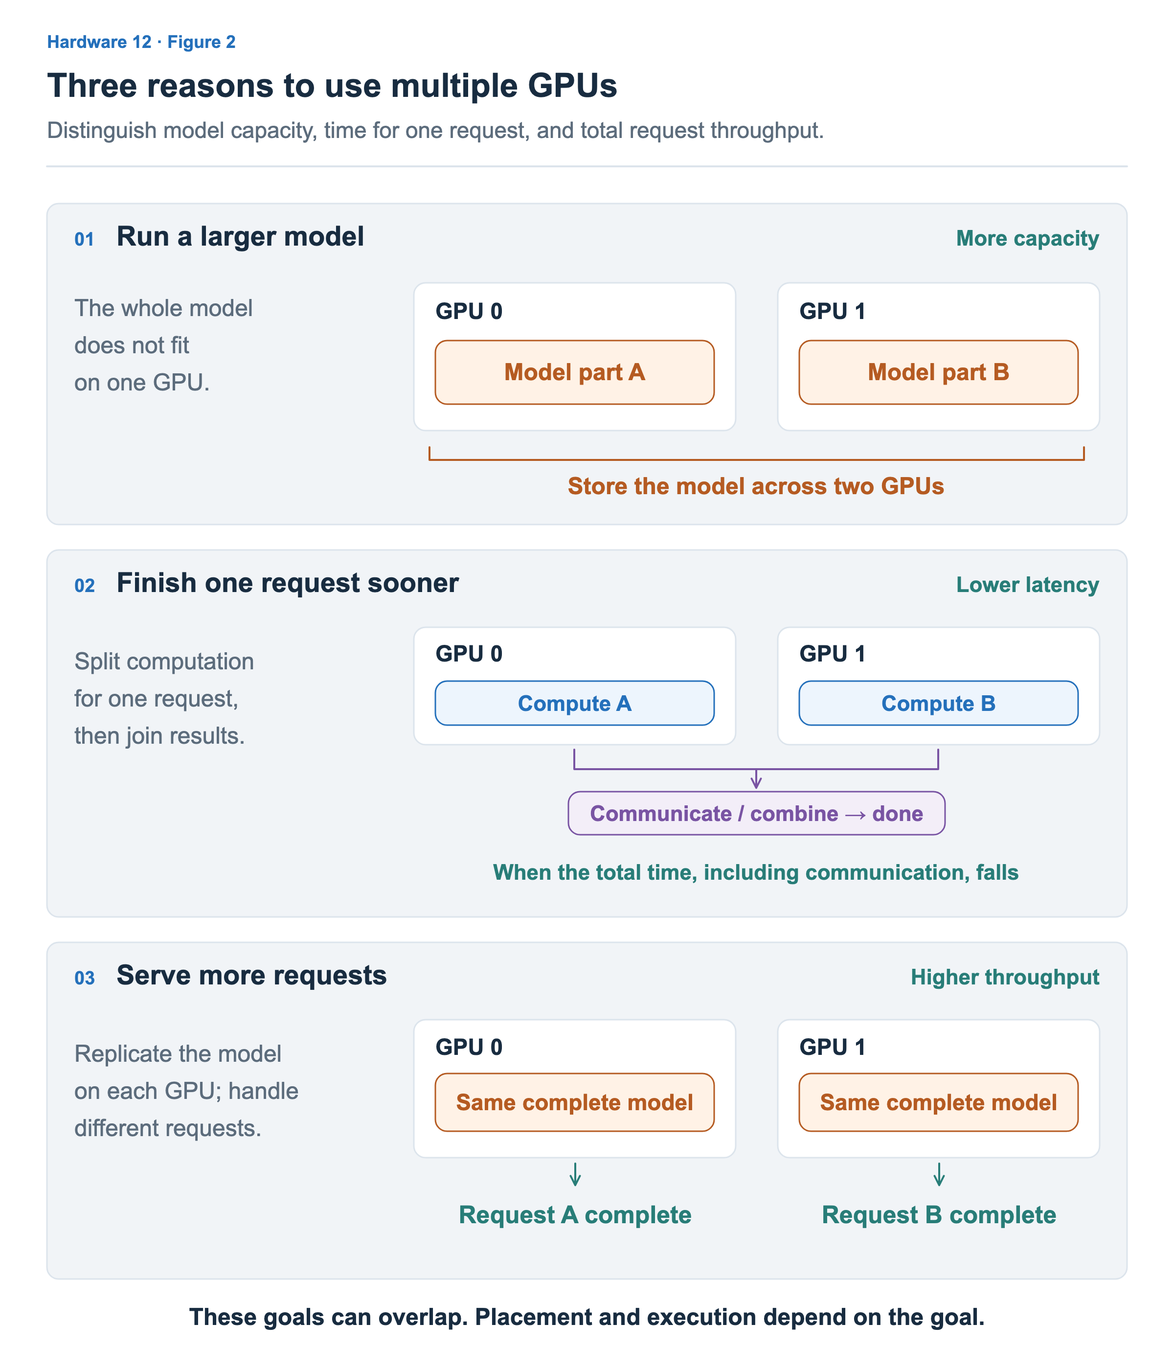
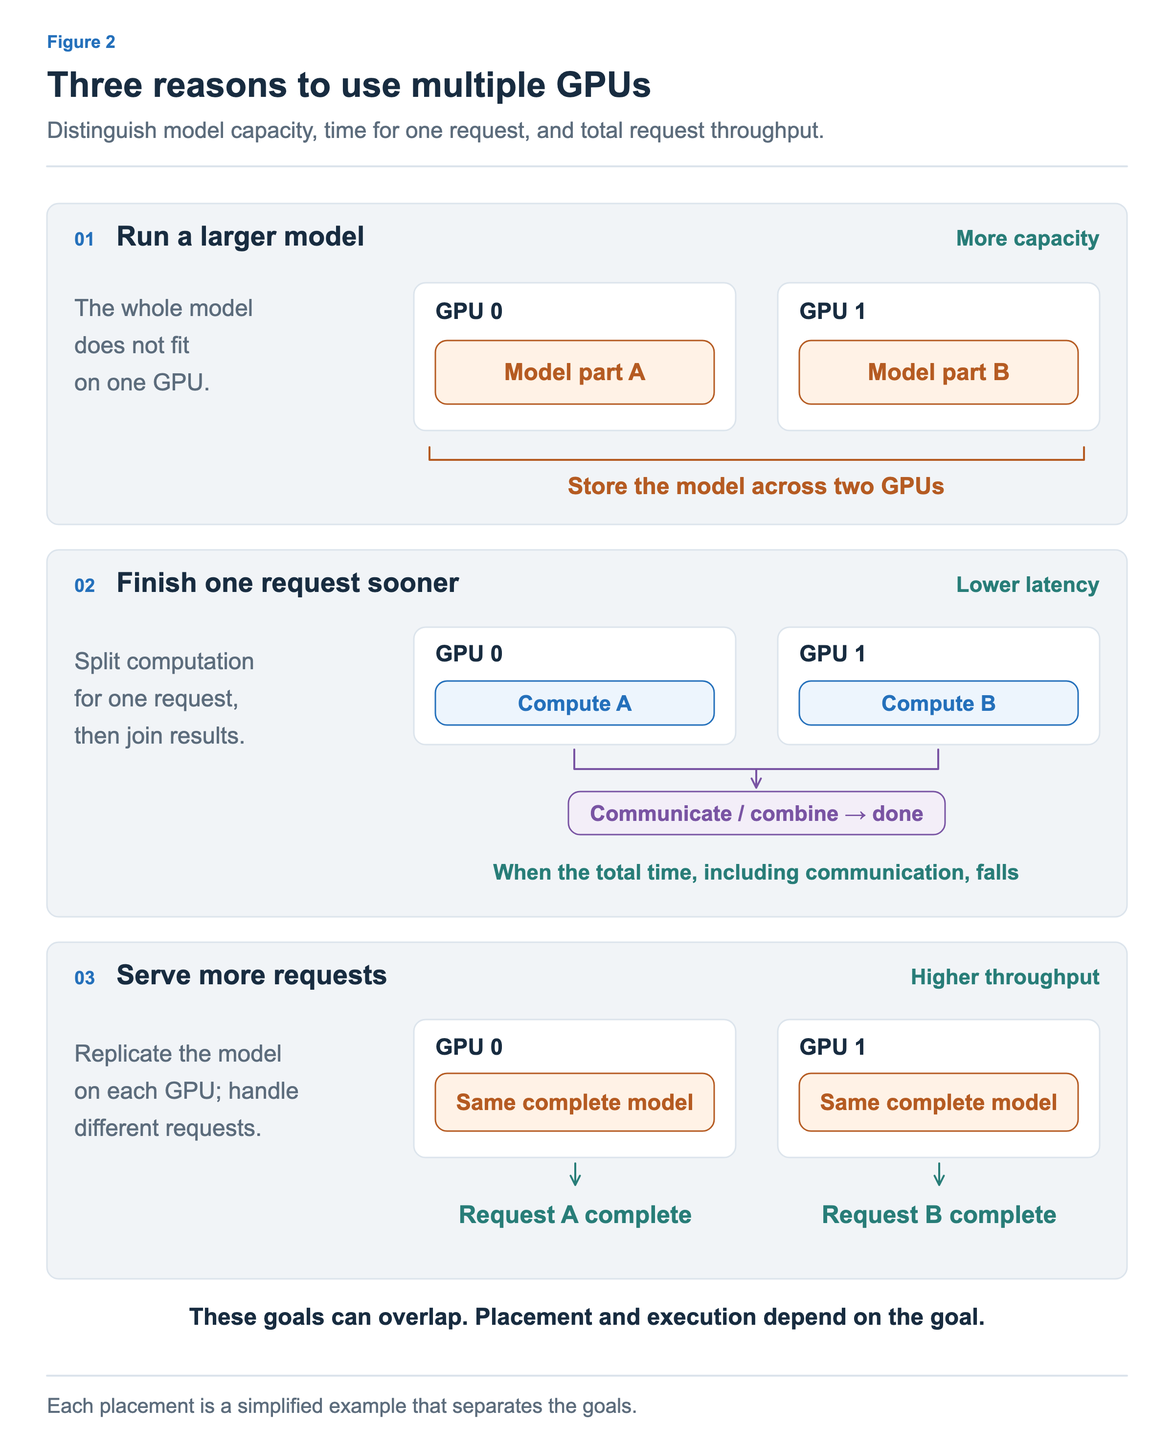
Port multi-gpu-execution figures to the shared visualization module
Figures are regenerated from src/data/figures/multi-gpu-execution with the standard frame
and in-image captions. Figures had no captions; new ko/en captions are drafted from the figures' own notes and the article text (please review).

diff --git a/src/data/figures/multi-gpu-execution/03-communication-and-waiting.ts b/src/data/figures/multi-gpu-execution/03-communication-and-waiting.ts
@@ -1,0 +1,73 @@
+import {C,Panel,markerUrl,type FigureSpec,type Locale} from '@llm-systems/viz';
+// Ported from the published SVG with its original geometry; replace parts with shared primitives when editing.
+export default {
+  articleId:"multi-gpu-execution",figureId:"03-communication-and-waiting",number:"03-communication-and-waiting",
+  layout:'wide',screens:['desktop'],
+  eyebrow:["그림 3","Figure 3"],
+  title:["GPU가 늘어도 속도가 비례하지는 않습니다","More GPUs do not guarantee proportional speedup"],
+  subtitle:["한 GPU의 시간 축을 여러 GPU의 실행과 통신·대기로 확장합니다.","Extend one GPU’s timeline to include multiple GPUs, communication, and waiting."],
+  alt:["같은 작업을 한 GPU에서는 100ms에 처리한다. 균등 분할은 GPU별 계산 50ms 후 통신과 취합 10ms로 60ms에 완료한다. 불균형 분할은 GPU 0이 30ms 계산 후 40ms 기다리고 GPU 1이 70ms 계산한 뒤, 10ms 통신과 취합으로 80ms에 완료한다. 시간 축은 같으며 대기 40ms를 전체에 다시 더하지 않는다. 설명용이며 계산과 통신은 겹치지 않는다.","The same workload takes 100 ms on one GPU. Balanced: 50 ms compute per GPU and 10 ms communication/combine finish at 60 ms. Uneven: GPU 0 computes for 30 and waits 40 ms while GPU 1 computes for 70, then 10 ms communication/combine finishes at 80 ms. The 40 ms wait is not added again. Illustrative, with no compute/communication overlap."],
+  caption:["설명용 수치이며, 이 예시에서 계산과 통신은 겹치지 않는다고 가정합니다.","Values are illustrative; this example assumes computation and communication do not overlap."],
+  sources:[],
+  panels(locale:Locale){
+    const p=new Panel(locale,null,988,1104,[48,206]);
+    p.el("rect",{x:48,y:198,width:22,height:22,rx:3,fill:C.blueFill,stroke:C.blue,"stroke-width":1.5});
+    p.el('text',{x:82,y:216,fill:C.blue,"font-size":21,"font-weight":400,"text-anchor":"start"},["연산","Compute"]);
+    p.el("rect",{x:239,y:198,width:22,height:22,rx:3,fill:C.purpleFill,stroke:C.purple,"stroke-width":1.5});
+    p.el('text',{x:273,y:216,fill:C.purple,"font-size":21,"font-weight":400,"text-anchor":"start"},["통신·취합","Transfer / combine"]);
+    p.el("rect",{x:555,y:198,width:22,height:22,rx:3,fill:C.grayFill,stroke:C.muted,"stroke-width":1.5});
+    p.el('text',{x:589,y:216,fill:C.muted,"font-size":21,"font-weight":400,"text-anchor":"start"},["대기","Wait"]);
+    p.el('text',{x:1152,y:216,fill:C.muted,"font-size":20,"font-weight":400,"text-anchor":"end"},["동일한 작업 · 단위: ms","Same workload · Unit: ms"]);
+    p.el('text',{x:281,y:264,fill:C.muted,"font-size":18,"font-weight":400,"text-anchor":"middle"},"0");
+    p.el("path",{d:"M281,320 V385 M281,477 V627 M281,778 V928",fill:"none",stroke:C.line,"stroke-width":2,"stroke-dasharray":"7 6"});
+    p.el('text',{x:421,y:264,fill:C.muted,"font-size":18,"font-weight":400,"text-anchor":"middle"},"20");
+    p.el("path",{d:"M421,320 V385 M421,477 V627 M421,778 V928",fill:"none",stroke:C.line,"stroke-width":2,"stroke-dasharray":"7 6"});
+    p.el('text',{x:561,y:264,fill:C.muted,"font-size":18,"font-weight":400,"text-anchor":"middle"},"40");
+    p.el("path",{d:"M561,320 V385 M561,477 V627 M561,778 V928",fill:"none",stroke:C.line,"stroke-width":2,"stroke-dasharray":"7 6"});
+    p.el('text',{x:701,y:264,fill:C.muted,"font-size":18,"font-weight":400,"text-anchor":"middle"},"60");
+    p.el("path",{d:"M701,320 V385 M701,477 V627 M701,778 V928",fill:"none",stroke:C.line,"stroke-width":2,"stroke-dasharray":"7 6"});
+    p.el('text',{x:841,y:264,fill:C.muted,"font-size":18,"font-weight":400,"text-anchor":"middle"},"80");
+    p.el("path",{d:"M841,320 V385 M841,477 V627 M841,778 V928",fill:"none",stroke:C.line,"stroke-width":2,"stroke-dasharray":"7 6"});
+    p.el('text',{x:981,y:264,fill:C.muted,"font-size":18,"font-weight":400,"text-anchor":"middle"},"100");
+    p.el("path",{d:"M981,320 V385 M981,477 V627 M981,778 V928",fill:"none",stroke:C.line,"stroke-width":2,"stroke-dasharray":"7 6"});
+    p.el('text',{x:48,y:311,fill:C.ink,"font-size":25,"font-weight":700,"text-anchor":"start"},["한 GPU","One GPU"]);
+    p.el('text',{x:48,y:363,fill:C.muted,"font-size":21,"font-weight":400,"text-anchor":"start"},"GPU 0");
+    p.el("rect",{x:281,y:331,width:700,height:48,rx:12,fill:C.blueFill,stroke:C.blue,"stroke-width":1.5});
+    p.el('text',{x:631,y:363,fill:C.blue,"font-size":23,"font-weight":600,"text-anchor":"middle"},["전체 계산 100","Full computation: 100"]);
+    p.el('text',{x:1010,y:363,fill:C.ink,"font-size":25,"font-weight":700,"text-anchor":"start"},"100 ms");
+    p.el('text',{x:48,y:463,fill:C.ink,"font-size":25,"font-weight":700,"text-anchor":"start"},["고른 분할","Balanced split"]);
+    p.el('text',{x:48,y:520,fill:C.muted,"font-size":21,"font-weight":400,"text-anchor":"start"},"GPU 0");
+    p.el("rect",{x:281,y:488,width:350,height:48,rx:12,fill:C.blueFill,stroke:C.blue,"stroke-width":1.5});
+    p.el('text',{x:456,y:520,fill:C.blue,"font-size":23,"font-weight":600,"text-anchor":"middle"},["계산 50","Compute: 50"]);
+    p.el("rect",{x:631,y:488,width:70,height:48,rx:12,fill:C.purpleFill,stroke:C.purple,"stroke-width":1.5});
+    p.el('text',{x:666,y:520,fill:C.purple,"font-size":23,"font-weight":600,"text-anchor":"middle"},"10");
+    p.el('text',{x:48,y:600,fill:C.muted,"font-size":21,"font-weight":400,"text-anchor":"start"},"GPU 1");
+    p.el("rect",{x:281,y:568,width:350,height:48,rx:12,fill:C.blueFill,stroke:C.blue,"stroke-width":1.5});
+    p.el('text',{x:456,y:600,fill:C.blue,"font-size":23,"font-weight":600,"text-anchor":"middle"},["계산 50","Compute: 50"]);
+    p.el("rect",{x:631,y:568,width:70,height:48,rx:12,fill:C.purpleFill,stroke:C.purple,"stroke-width":1.5});
+    p.el('text',{x:666,y:600,fill:C.purple,"font-size":23,"font-weight":600,"text-anchor":"middle"},"10");
+    p.el("path",{d:"M666,541 L666,561",fill:"none",stroke:C.purple,"stroke-width":2,"marker-end":markerUrl(C.purple)});
+    p.el('text',{x:725,y:601,fill:C.ink,"font-size":25,"font-weight":700,"text-anchor":"start"},"60 ms");
+    p.el('text',{x:281,y:659,fill:C.muted,"font-size":23,"font-weight":400,"text-anchor":"start"},["50 ms 계산 + 10 ms 통신·취합 = 60 ms","50 ms compute + 10 ms transfer / combine = 60 ms"]);
+    p.el('text',{x:48,y:765,fill:C.ink,"font-size":25,"font-weight":700,"text-anchor":"start"},["불균형한 분할","Uneven split"]);
+    p.el('text',{x:48,y:821,fill:C.muted,"font-size":21,"font-weight":400,"text-anchor":"start"},"GPU 0");
+    p.el("rect",{x:281,y:789,width:210,height:48,rx:12,fill:C.blueFill,stroke:C.blue,"stroke-width":1.5});
+    p.el('text',{x:386,y:821,fill:C.blue,"font-size":23,"font-weight":600,"text-anchor":"middle"},["계산 30","Compute: 30"]);
+    p.el("rect",{x:491,y:789,width:280,height:48,rx:12,fill:C.grayFill,stroke:C.muted,"stroke-width":1.5});
+    p.el('text',{x:631,y:821,fill:C.muted,"font-size":23,"font-weight":600,"text-anchor":"middle"},["대기 40","Wait: 40"]);
+    p.el("rect",{x:771,y:789,width:70,height:48,rx:12,fill:C.purpleFill,stroke:C.purple,"stroke-width":1.5});
+    p.el('text',{x:806,y:821,fill:C.purple,"font-size":23,"font-weight":600,"text-anchor":"middle"},"10");
+    p.el('text',{x:48,y:901,fill:C.muted,"font-size":21,"font-weight":400,"text-anchor":"start"},"GPU 1");
+    p.el("rect",{x:281,y:869,width:490,height:48,rx:12,fill:C.blueFill,stroke:C.blue,"stroke-width":1.5});
+    p.el('text',{x:526,y:901,fill:C.blue,"font-size":23,"font-weight":600,"text-anchor":"middle"},["계산 70","Compute: 70"]);
+    p.el("rect",{x:771,y:869,width:70,height:48,rx:12,fill:C.purpleFill,stroke:C.purple,"stroke-width":1.5});
+    p.el('text',{x:806,y:901,fill:C.purple,"font-size":23,"font-weight":600,"text-anchor":"middle"},"10");
+    p.el("path",{d:"M806,842 L806,862",fill:"none",stroke:C.purple,"stroke-width":2,"marker-end":markerUrl(C.purple)});
+    p.el('text',{x:865,y:901,fill:C.ink,"font-size":25,"font-weight":700,"text-anchor":"start"},"80 ms");
+    p.el('text',{x:281,y:959,fill:C.muted,"font-size":22,"font-weight":400,"text-anchor":"start"},["늦게 끝나는 계산 70 ms + 통신·취합 10 ms = 80 ms","70 ms for the slower computation + 10 ms transfer / combine = 80 ms"]);
+    p.el("rect",{x:48,y:1049,width:1104,height:137,rx:12,fill:C.grayFill,stroke:C.line,"stroke-width":1.5});
+    p.el('text',{x:600,y:1095,fill:C.ink,"font-size":26,"font-weight":700,"text-anchor":"middle"},["계산을 줄여도, 통신과 기다리는 시간이 추가될 수 있습니다.","Less computation per GPU can come with communication and waiting."]);
+    p.el('text',{x:600,y:1137,fill:C.muted,"font-size":23,"font-weight":400,"text-anchor":"middle"},["전체 완료 시간은 GPU별 시간을 더한 값이 아니라 실행 경로로 결정됩니다.","Elapsed time follows the execution path; it is not the sum of GPU times."]);
+    return [p];
+  },
+} satisfies FigureSpec;

diff --git a/src/data/figures/multi-gpu-execution/02-three-goals.ts b/src/data/figures/multi-gpu-execution/02-three-goals.ts
@@ -1,0 +1,73 @@
+import {C,Panel,markerUrl,type FigureSpec,type Locale} from '@llm-systems/viz';
+// Ported from the published SVG with its original geometry; replace parts with shared primitives when editing.
+export default {
+  articleId:"multi-gpu-execution",figureId:"02-three-goals",number:"02-three-goals",
+  layout:'wide',screens:['desktop'],
+  eyebrow:["그림 2","Figure 2"],
+  title:["여러 GPU를 사용하는 세 가지 목적","Three reasons to use multiple GPUs"],
+  subtitle:["모델을 담는 용량, 한 요청의 완료 시간, 전체 요청 처리량을 구분합니다.","Distinguish model capacity, time for one request, and total request throughput."],
+  alt:["첫 패널은 모델 A와 B를 두 GPU에 분할 저장한다. 둘째는 같은 요청의 계산 A와 B를 동시에 처리하고 통신과 취합을 거쳐 완료한다. 셋째는 각 GPU에 같은 전체 모델을 복제하고 요청 A와 B를 따로 처리한다. 목적은 겹칠 수 있다.","Panel 1 stores model parts A and B across two GPUs. Panel 2 splits one request into concurrent computations A and B and communicates to combine results. Panel 3 replicates the full model on each GPU and serves requests A and B separately. Goals may overlap."],
+  caption:["각 배치는 목적을 구분하기 위한 단순화된 예시입니다.","Each placement is a simplified example that separates the goals."],
+  sources:[],
+  panels(locale:Locale){
+    const p=new Panel(locale,null,1164,1104,[48,206]);
+    p.el("rect",{x:48,y:208,width:1104,height:328,rx:12,fill:C.grayFill,stroke:C.line,"stroke-width":1.5});
+    p.el('text',{x:76,y:251,fill:C.blue,"font-size":19,"font-weight":600,"text-anchor":"start"},"01");
+    p.el('text',{x:119,y:251,fill:C.ink,"font-size":28,"font-weight":700,"text-anchor":"start"},["더 큰 모델 실행","Run a larger model"]);
+    p.el('text',{x:1124,y:251,fill:C.teal,"font-size":22,"font-weight":600,"text-anchor":"end"},["용량 확보","More capacity"]);
+    p.el("rect",{x:48,y:562,width:1104,height:375,rx:12,fill:C.grayFill,stroke:C.line,"stroke-width":1.5});
+    p.el('text',{x:76,y:605,fill:C.blue,"font-size":19,"font-weight":600,"text-anchor":"start"},"02");
+    p.el('text',{x:119,y:605,fill:C.ink,"font-size":28,"font-weight":700,"text-anchor":"start"},["한 요청을 더 빠르게","Finish one request sooner"]);
+    p.el('text',{x:1124,y:605,fill:C.teal,"font-size":22,"font-weight":600,"text-anchor":"end"},["응답 시간 단축","Lower latency"]);
+    p.el("rect",{x:48,y:963,width:1104,height:344,rx:12,fill:C.grayFill,stroke:C.line,"stroke-width":1.5});
+    p.el('text',{x:76,y:1006,fill:C.blue,"font-size":19,"font-weight":600,"text-anchor":"start"},"03");
+    p.el('text',{x:119,y:1006,fill:C.ink,"font-size":28,"font-weight":700,"text-anchor":"start"},["더 많은 요청 처리","Serve more requests"]);
+    p.el('text',{x:1124,y:1006,fill:C.teal,"font-size":22,"font-weight":600,"text-anchor":"end"},["처리량 증가","Higher throughput"]);
+    p.el('text',{x:76,y:323,fill:C.muted,"font-size":24,"font-weight":400,"text-anchor":"start"},["한 GPU에는","The whole model"]);
+    p.el('text',{x:76,y:361,fill:C.muted,"font-size":24,"font-weight":400,"text-anchor":"start"},["모델 전체가","does not fit"]);
+    p.el('text',{x:76,y:399,fill:C.muted,"font-size":24,"font-weight":400,"text-anchor":"start"},["들어가지 않음","on one GPU."]);
+    p.el("rect",{x:423,y:289,width:329,height:151,rx:12,fill:C.paper,stroke:C.line,"stroke-width":1.5});
+    p.el('text',{x:445,y:326,fill:C.ink,"font-size":23,"font-weight":700,"text-anchor":"start"},"GPU 0");
+    p.el("rect",{x:445,y:348,width:285,height:65,rx:12,fill:C.orangeFill,stroke:C.orange,"stroke-width":1.5});
+    p.el('text',{x:587.5,y:388.5,fill:C.orange,"font-size":24,"font-weight":600,"text-anchor":"middle"},["모델 일부 A","Model part A"]);
+    p.el("rect",{x:795,y:289,width:329,height:151,rx:12,fill:C.paper,stroke:C.line,"stroke-width":1.5});
+    p.el('text',{x:817,y:326,fill:C.ink,"font-size":23,"font-weight":700,"text-anchor":"start"},"GPU 1");
+    p.el("rect",{x:817,y:348,width:285,height:65,rx:12,fill:C.orangeFill,stroke:C.orange,"stroke-width":1.5});
+    p.el('text',{x:959.5,y:388.5,fill:C.orange,"font-size":24,"font-weight":600,"text-anchor":"middle"},["모델 일부 B","Model part B"]);
+    p.el("path",{d:"M439,457 V470 H1108 V457",fill:"none",stroke:C.orange,"stroke-width":2});
+    p.el('text',{x:773,y:505,fill:C.orange,"font-size":24,"font-weight":600,"text-anchor":"middle"},["두 GPU에 모델을 나누어 저장","Store the model across two GPUs"]);
+    p.el('text',{x:76,y:684,fill:C.muted,"font-size":24,"font-weight":400,"text-anchor":"start"},["한 요청의 계산을","Split computation"]);
+    p.el('text',{x:76,y:722,fill:C.muted,"font-size":24,"font-weight":400,"text-anchor":"start"},["나누어 수행하고","for one request,"]);
+    p.el('text',{x:76,y:760,fill:C.muted,"font-size":24,"font-weight":400,"text-anchor":"start"},["결과를 연결","then join results."]);
+    p.el("rect",{x:423,y:641,width:329,height:120,rx:12,fill:C.paper,stroke:C.line,"stroke-width":1.5});
+    p.el('text',{x:445,y:676,fill:C.ink,"font-size":23,"font-weight":700,"text-anchor":"start"},"GPU 0");
+    p.el("rect",{x:445,y:696,width:285,height:45,rx:12,fill:C.blueFill,stroke:C.blue,"stroke-width":1.5});
+    p.el('text',{x:587.5,y:726.5,fill:C.blue,"font-size":22,"font-weight":600,"text-anchor":"middle"},["계산 A","Compute A"]);
+    p.el("rect",{x:795,y:641,width:329,height:120,rx:12,fill:C.paper,stroke:C.line,"stroke-width":1.5});
+    p.el('text',{x:817,y:676,fill:C.ink,"font-size":23,"font-weight":700,"text-anchor":"start"},"GPU 1");
+    p.el("rect",{x:817,y:696,width:285,height:45,rx:12,fill:C.blueFill,stroke:C.blue,"stroke-width":1.5});
+    p.el('text',{x:959.5,y:726.5,fill:C.blue,"font-size":22,"font-weight":600,"text-anchor":"middle"},["계산 B","Compute B"]);
+    p.el("path",{d:"M587,766 V786 H773 V804",fill:"none",stroke:C.purple,"stroke-width":2,"marker-end":markerUrl(C.purple)});
+    p.el("path",{d:"M959,766 V786 H773",fill:"none",stroke:C.purple,"stroke-width":2});
+    p.el("rect",{x:581,y:809,width:385,height:44,rx:12,fill:C.purpleFill,stroke:C.purple,"stroke-width":1.5});
+    p.el('text',{x:773.5,y:839,fill:C.purple,"font-size":22,"font-weight":600,"text-anchor":"middle"},["통신·결과 취합 → 완료","Communicate / combine → done"]);
+    p.el('text',{x:773,y:899,fill:C.teal,"font-size":22,"font-weight":600,"text-anchor":"middle"},["통신을 포함한 완료 시간이 줄어드는 경우","When the total time, including communication, falls"]);
+    p.el('text',{x:76,y:1085,fill:C.muted,"font-size":24,"font-weight":400,"text-anchor":"start"},["같은 모델을","Replicate the model"]);
+    p.el('text',{x:76,y:1123,fill:C.muted,"font-size":24,"font-weight":400,"text-anchor":"start"},["각 GPU에 복제하고","on each GPU; handle"]);
+    p.el('text',{x:76,y:1161,fill:C.muted,"font-size":24,"font-weight":400,"text-anchor":"start"},["서로 다른 요청 처리","different requests."]);
+    p.el("rect",{x:423,y:1042,width:329,height:141,rx:12,fill:C.paper,stroke:C.line,"stroke-width":1.5});
+    p.el('text',{x:445,y:1078,fill:C.ink,"font-size":23,"font-weight":700,"text-anchor":"start"},"GPU 0");
+    p.el("rect",{x:445,y:1097,width:285,height:59,rx:12,fill:C.orangeFill,stroke:C.orange,"stroke-width":1.5});
+    p.el('text',{x:587.5,y:1134.5,fill:C.orange,"font-size":23,"font-weight":600,"text-anchor":"middle"},["같은 모델 전체","Same complete model"]);
+    p.el("path",{d:"M588,1189 L588,1210",fill:"none",stroke:C.teal,"stroke-width":2,"marker-end":markerUrl(C.teal)});
+    p.el('text',{x:588,y:1250,fill:C.teal,"font-size":25,"font-weight":600,"text-anchor":"middle"},["요청 A 완료","Request A complete"]);
+    p.el("rect",{x:795,y:1042,width:329,height:141,rx:12,fill:C.paper,stroke:C.line,"stroke-width":1.5});
+    p.el('text',{x:817,y:1078,fill:C.ink,"font-size":23,"font-weight":700,"text-anchor":"start"},"GPU 1");
+    p.el("rect",{x:817,y:1097,width:285,height:59,rx:12,fill:C.orangeFill,stroke:C.orange,"stroke-width":1.5});
+    p.el('text',{x:959.5,y:1134.5,fill:C.orange,"font-size":23,"font-weight":600,"text-anchor":"middle"},["같은 모델 전체","Same complete model"]);
+    p.el("path",{d:"M960,1189 L960,1210",fill:"none",stroke:C.teal,"stroke-width":2,"marker-end":markerUrl(C.teal)});
+    p.el('text',{x:960,y:1250,fill:C.teal,"font-size":25,"font-weight":600,"text-anchor":"middle"},["요청 B 완료","Request B complete"]);
+    p.el('text',{x:600,y:1354,fill:C.ink,"font-size":24,"font-weight":600,"text-anchor":"middle"},["세 목적은 함께 달성할 수도 있습니다. 목적에 따라 배치와 실행을 정합니다.","These goals can overlap. Placement and execution depend on the goal."]);
+    return [p];
+  },
+} satisfies FigureSpec;

diff --git a/src/data/figures/multi-gpu-execution/01-gpus-and-interconnect.ts b/src/data/figures/multi-gpu-execution/01-gpus-and-interconnect.ts
@@ -1,0 +1,44 @@
+import {C,Panel,markerUrl,type FigureSpec,type Locale} from '@llm-systems/viz';
+// Ported from the published SVG with its original geometry; replace parts with shared primitives when editing.
+export default {
+  articleId:"multi-gpu-execution",figureId:"01-gpus-and-interconnect",number:"01-gpus-and-interconnect",
+  layout:'wide',screens:['desktop'],
+  eyebrow:["그림 1","Figure 1"],
+  title:["각 GPU에는 연산 장치와 메모리가 있습니다","Each GPU has its own compute and memory"],
+  subtitle:["한 GPU 안의 데이터 이동에서 GPU 사이의 데이터 이동으로 범위를 넓힙니다.","Extend the view from data movement within one GPU to movement between GPUs."],
+  alt:["GPU 0과 GPU 1 각각에 연산 장치와 HBM이 있다. 파란 왕복 화살표는 GPU 내부 메모리 이동, 보라 왕복 화살표는 두 GPU의 메모리 사이 통신을 나타낸다. 두 메모리는 하나의 자동 통합된 공간으로 그리지 않는다.","GPU 0 and GPU 1 each have compute units and HBM. Blue arrows show local memory traffic; purple arrows show communication between their memories. The memories are not depicted as one automatically pooled space."],
+  caption:["두 GPU의 메모리는 자동으로 합쳐진 하나의 공간이 아닙니다. 보라 화살표는 GPU 사이의 통신입니다.","The two GPU memories are not automatically merged into one space; purple arrows show communication between GPUs."],
+  sources:[],
+  panels(locale:Locale){
+    const p=new Panel(locale,null,654,1104,[48,206]);
+    p.el("rect",{x:48,y:216,width:476,height:474,rx:12,fill:C.grayFill,stroke:C.line,"stroke-width":1.5});
+    p.el('text',{x:76,y:262,fill:C.ink,"font-size":29,"font-weight":700,"text-anchor":"start"},"GPU 0");
+    p.el("rect",{x:92,y:299,width:388,height:116,rx:12,fill:C.blueFill,stroke:C.blue,"stroke-width":1.5});
+    p.el('text',{x:286,y:365,fill:C.blue,"font-size":28,"font-weight":600,"text-anchor":"middle"},["연산 장치","Compute units"]);
+    p.el("path",{d:"M198,435 L198,511",fill:"none",stroke:C.blue,"stroke-width":2,"marker-end":markerUrl(C.blue)});
+    p.el("path",{d:"M236,511 L236,435",fill:"none",stroke:C.blue,"stroke-width":2,"marker-end":markerUrl(C.blue)});
+    p.el('text',{x:272,y:460,fill:C.blue,"font-size":22,"font-weight":400,"text-anchor":"start"},["GPU 내부","Local memory"]);
+    p.el('text',{x:272,y:492,fill:C.blue,"font-size":22,"font-weight":400,"text-anchor":"start"},["메모리 이동","traffic"]);
+    p.el("rect",{x:92,y:530,width:388,height:112,rx:12,fill:C.orangeFill,stroke:C.orange,"stroke-width":1.5});
+    p.el('text',{x:286,y:594,fill:C.orange,"font-size":25,"font-weight":600,"text-anchor":"middle"},["자신의 메모리 · HBM","Own memory · HBM"]);
+    p.el("rect",{x:676,y:216,width:476,height:474,rx:12,fill:C.grayFill,stroke:C.line,"stroke-width":1.5});
+    p.el('text',{x:704,y:262,fill:C.ink,"font-size":29,"font-weight":700,"text-anchor":"start"},"GPU 1");
+    p.el("rect",{x:720,y:299,width:388,height:116,rx:12,fill:C.blueFill,stroke:C.blue,"stroke-width":1.5});
+    p.el('text',{x:914,y:365,fill:C.blue,"font-size":28,"font-weight":600,"text-anchor":"middle"},["연산 장치","Compute units"]);
+    p.el("path",{d:"M826,435 L826,511",fill:"none",stroke:C.blue,"stroke-width":2,"marker-end":markerUrl(C.blue)});
+    p.el("path",{d:"M864,511 L864,435",fill:"none",stroke:C.blue,"stroke-width":2,"marker-end":markerUrl(C.blue)});
+    p.el('text',{x:900,y:460,fill:C.blue,"font-size":22,"font-weight":400,"text-anchor":"start"},["GPU 내부","Local memory"]);
+    p.el('text',{x:900,y:492,fill:C.blue,"font-size":22,"font-weight":400,"text-anchor":"start"},["메모리 이동","traffic"]);
+    p.el("rect",{x:720,y:530,width:388,height:112,rx:12,fill:C.orangeFill,stroke:C.orange,"stroke-width":1.5});
+    p.el('text',{x:914,y:594,fill:C.orange,"font-size":25,"font-weight":600,"text-anchor":"middle"},["자신의 메모리 · HBM","Own memory · HBM"]);
+    p.el("path",{d:"M482,561 L718,561",fill:"none",stroke:C.purple,"stroke-width":2,"marker-end":markerUrl(C.purple)});
+    p.el("path",{d:"M718,610 L482,610",fill:"none",stroke:C.purple,"stroke-width":2,"marker-end":markerUrl(C.purple)});
+    p.el('text',{x:600,y:470,fill:C.purple,"font-size":20,"font-weight":400,"text-anchor":"middle"},["GPU 사이","Between GPUs"]);
+    p.el('text',{x:600,y:500,fill:C.purple,"font-size":20,"font-weight":400,"text-anchor":"middle"},["데이터 전달","Data transfer"]);
+    p.el('text',{x:600,y:593,fill:C.purple,"font-size":20,"font-weight":600,"text-anchor":"middle"},["연결 경로","Interconnect"]);
+    p.el("rect",{x:48,y:727,width:1104,height:125,rx:12,fill:C.purpleFill,stroke:C.purple,"stroke-width":1.5});
+    p.el('text',{x:600,y:774,fill:C.ink,"font-size":26,"font-weight":700,"text-anchor":"middle"},["연산과 메모리는 늘어나고, GPU 사이의 통신이 추가됩니다.","More compute and memory also introduce communication between GPUs."]);
+    p.el('text',{x:600,y:817,fill:C.muted,"font-size":23,"font-weight":400,"text-anchor":"middle"},["다른 GPU의 데이터가 필요한 계산에는 전달과 준비 과정이 필요합니다.","A computation that needs another GPU’s data must arrange that transfer."]);
+    return [p];
+  },
+} satisfies FigureSpec;
